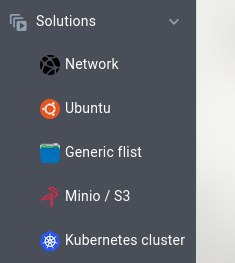
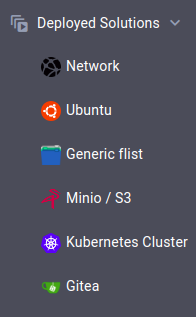
Add gitea chatflow docs

diff --git a/ThreeBotPackages/tfgrid_solutions/tfgrid_solutions/wiki/gitea/README.md b/ThreeBotPackages/tfgrid_solutions/tfgrid_solutions/wiki/gitea/README.md
@@ -1,0 +1,94 @@
+# Gitea
+Gitea is a painless self-hosted Git service. It is similar to GitHub, Bitbucket, and GitLab. Gitea is a fork of Gogs. See the Gitea Announcement blog post to read about the justification for a fork.
+
+## Accessing the solution
+
+Go to your admin dashboard `https://localhost:4000/admin` and click on Gitea
+
+![solutions menu](./../adminmenu.png)
+
+
+## Inputs
+
+- `container name` a name of your container to help you to get it again with reservation id.
+- `ssh key` : add your public ssh key `~/.ssh/id_rsa.pub`, if your flist supports using the ssh key from the env variables provided to allow future ssh access
+- `Expiration time`: a gitea expiration time.
+- `Node id` : node id you would like to deploy on if left empty a node will be chosen for you
+- `database name` : database name of your gitea
+- `database username`: the username for your gitea database.
+- `database secret`: the secret for your gitea database.
+- `Repository name`: the name of repository.
+- `IP Address`: choose the ip address for your gitea machine.
+   
+
+## User setup
+
+- Register user threebot on explorer ```kosmos "j.me.configure()"```
+
+    Note: name of 3bot is (your 3bot name).3bot , email is your 3bot email
+- Install [wireguard](https://www.wireguard.com/install/)
+
+After the deployment of the Gitea is complete, a url will be returned that can be used to access the container through web browser after up your wireguard configuration.
+
+## Deploying Gitea Container
+
+### Choosing the network name
+
+![step1](2.png)
+Choosing the network to be used from a list of existing networks created by the user
+
+### Choosing the solution name
+
+![step2](3.png)
+Choosing the name of the solution to be deployed. This allows the user to view the solution's reservation info in the dashboard deployed solutions
+
+
+### Authorizing yourself
+
+![step3](4.png)
+Uploading your public key for SSH access
+
+### Setting expiration
+
+![step4](5.png)
+Now we need to tell the grid how long we want our solution to stay alive on the grid
+
+### database credentials 
+
+![step5](6.png)
+add all database requirements (name , username of database and secret) to initialize it .
+
+### Create Repository
+
+![step6](7.png)
+Name of your repository .
+
+### Choose a node to deploy on (optional)
+
+![step7](15.png)
+
+Here we can provide a node id corresponding to a current node on the grid to deploy the container on. If there is no specific node to be used then it is left empty.
+
+### Choose a farm to deploy on
+
+![step8](../farms.png)
+If the nodeid is left empty, we can choose the farms on which the container can be deployed on. The farms are basically a group of nodes where multiple solutions can be deployed on them. We can either choose the farm name from the drop down list or leave it empty to randomly choose any farm.
+
+### Choosing IP for the solution
+
+![step9](9.png)
+Here we choose the IP to access the solution
+
+
+### Payment
+
+![step10](../payment.png)
+We select the wallet that we will pay with to proceed with the payment for the solution that will be deployed.
+
+### Reaching your container
+
+![step11](11.png)
+Here we get the container
+
+### Gitea from your browser 
+![step12](12.png)
